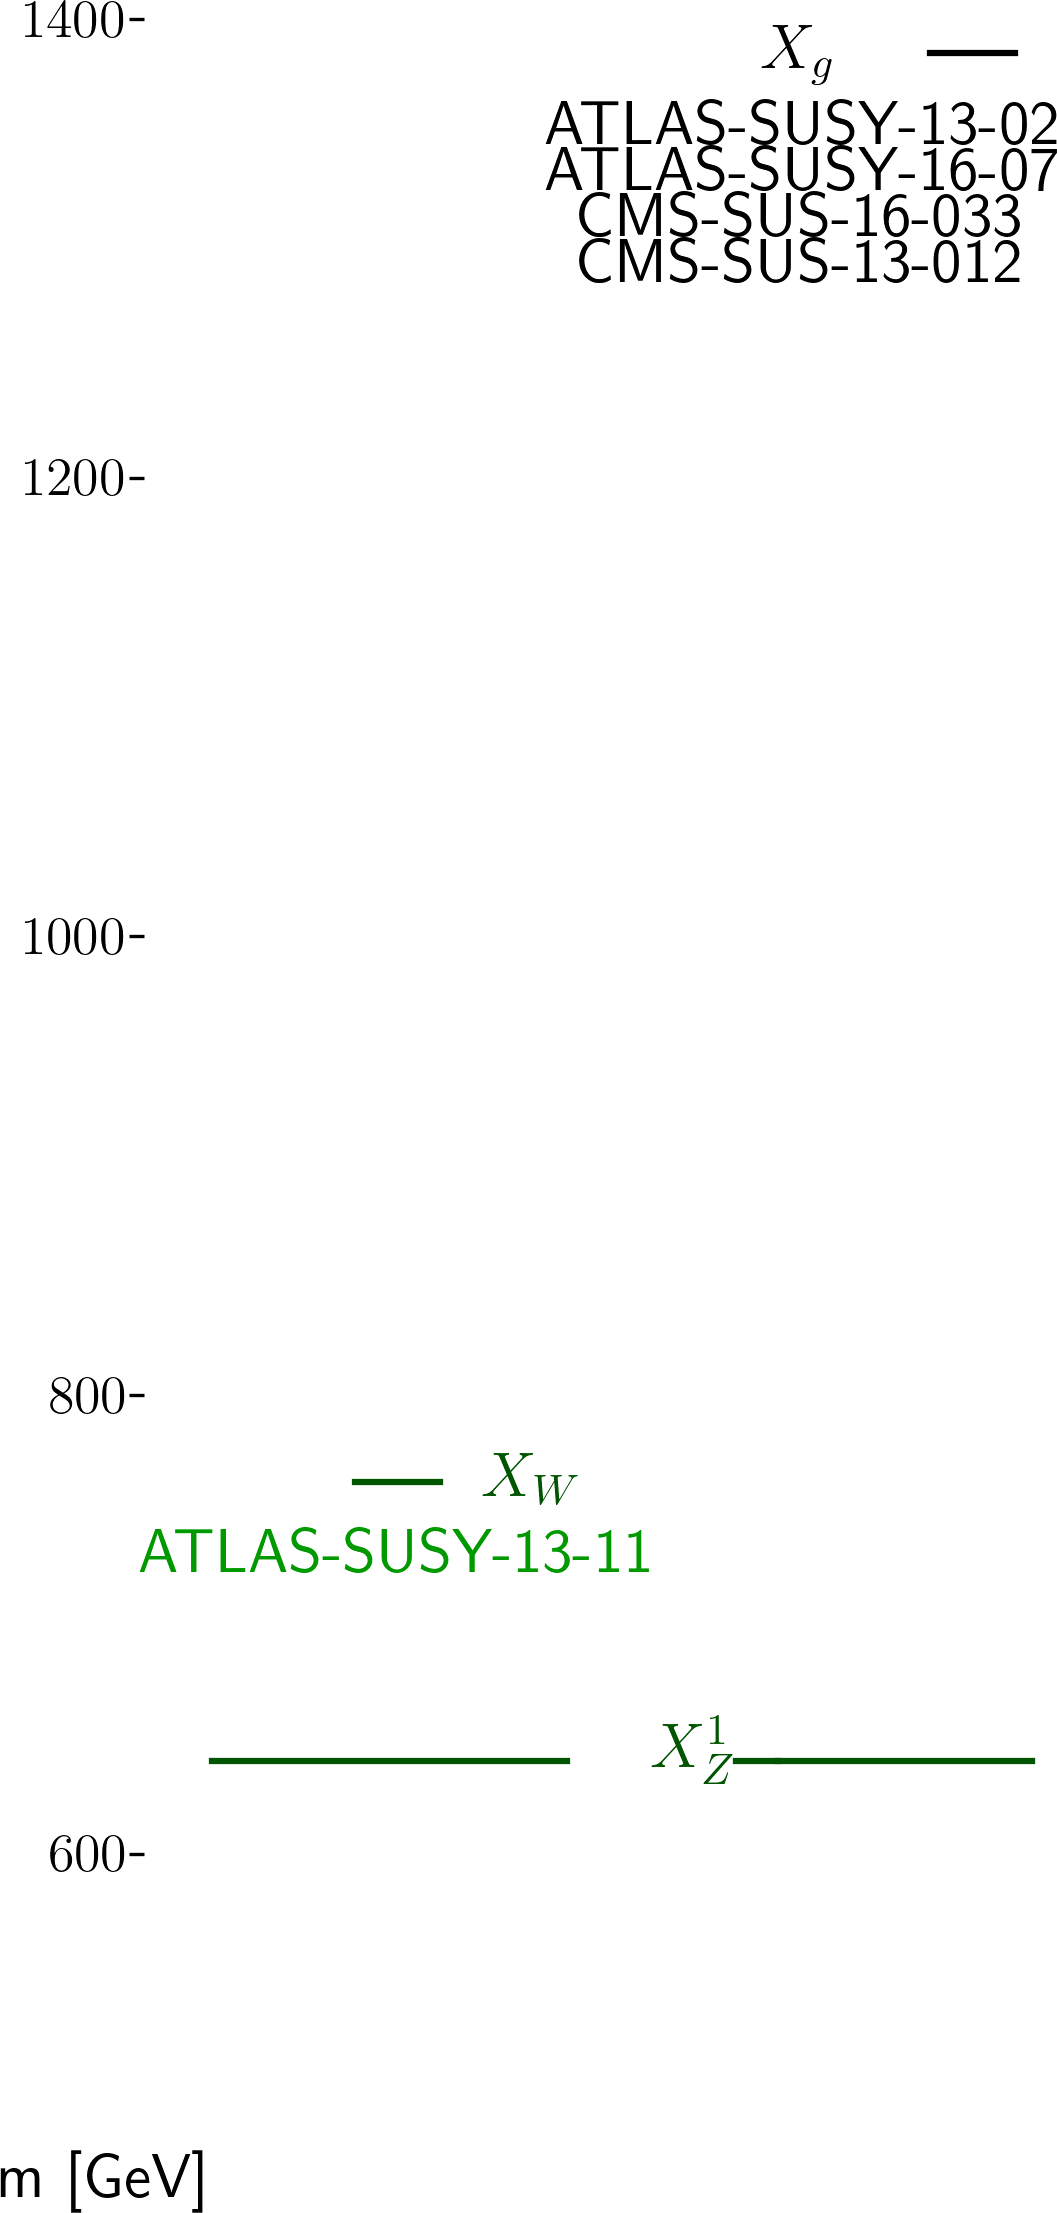
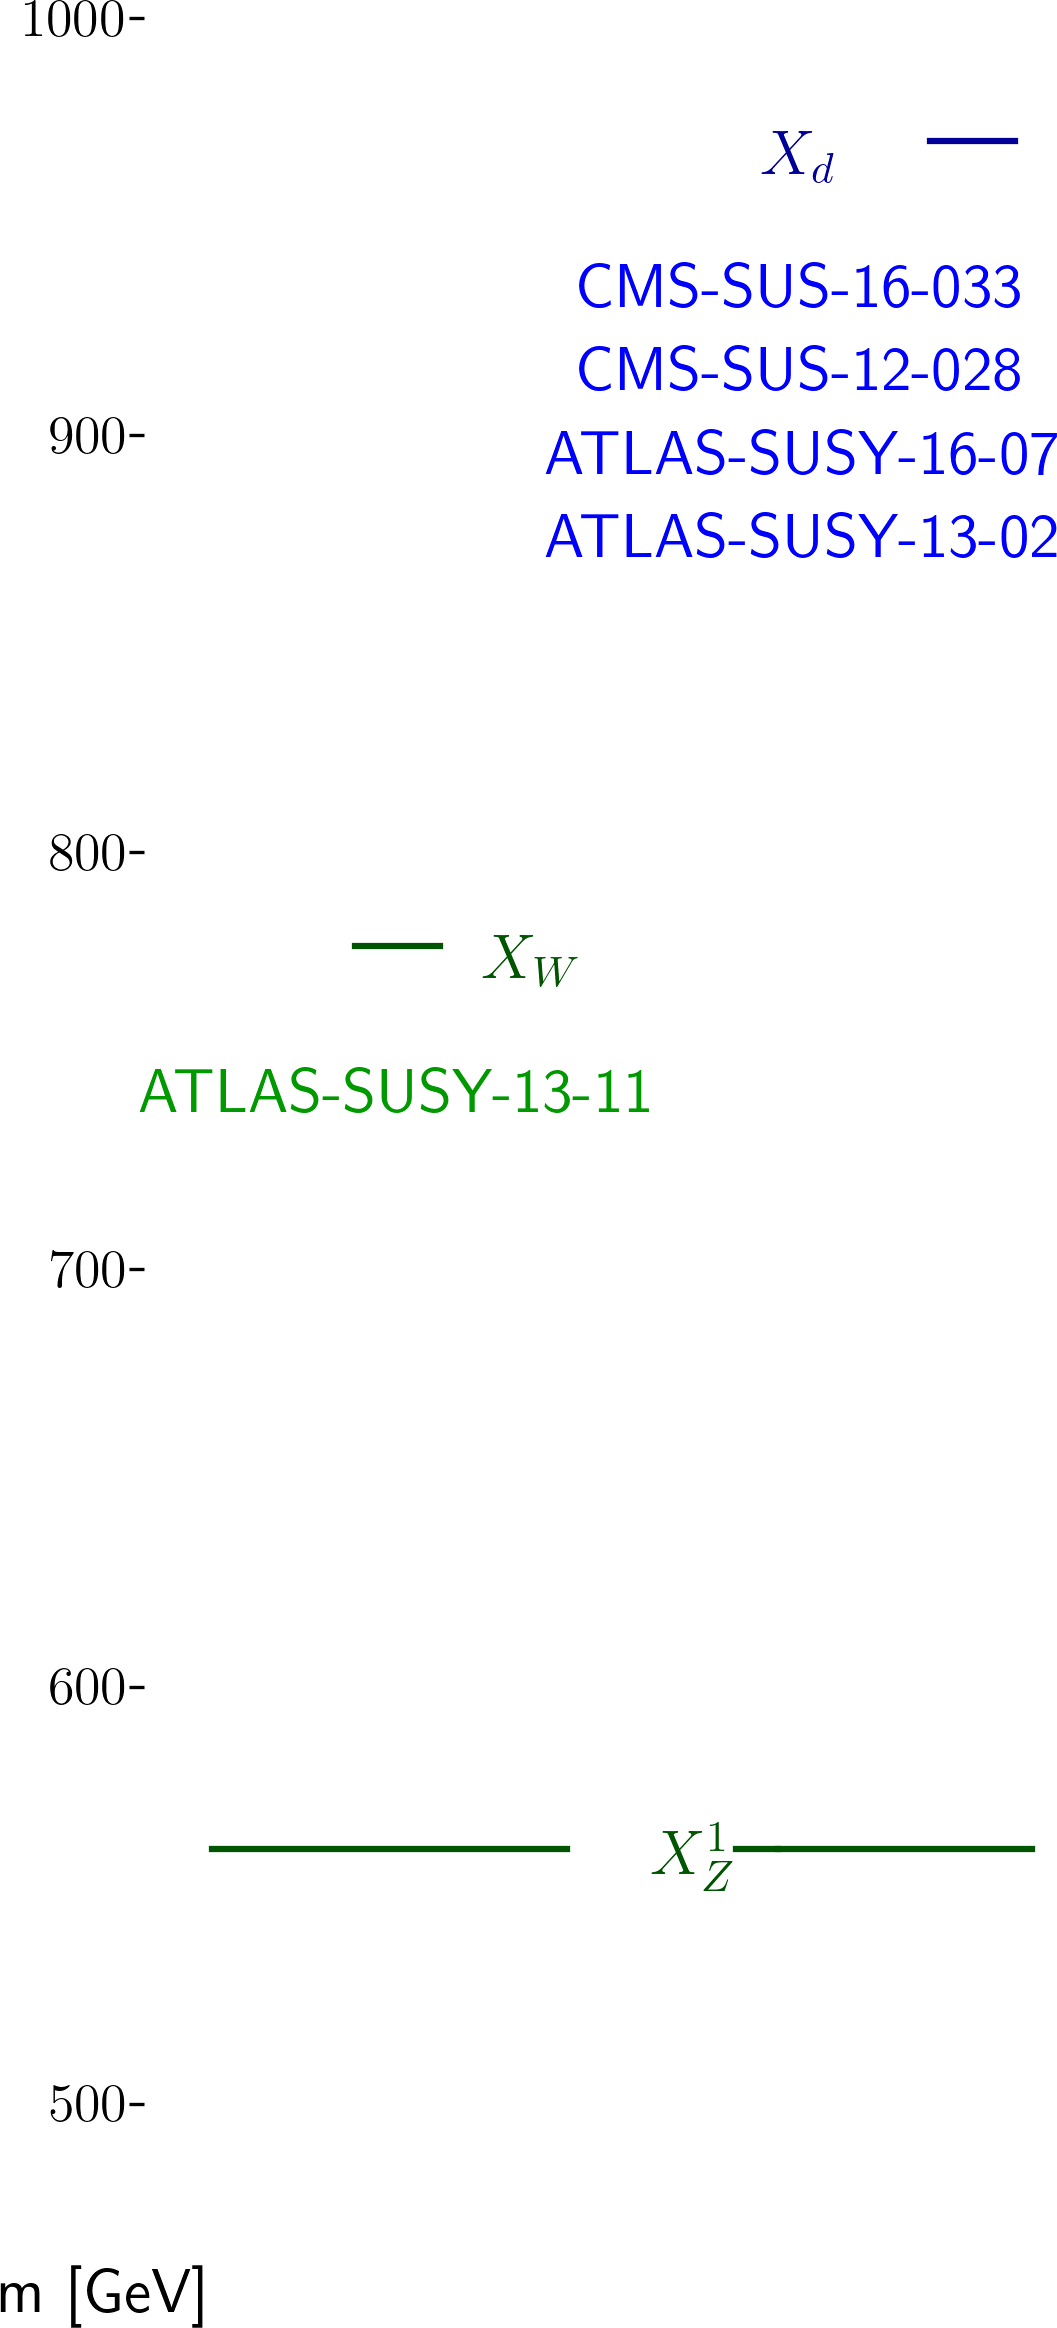
automated update by plotHiscore.py

diff --git a/protomodels/latest/index.html b/protomodels/latest/index.html
@@ -1,29 +1,30 @@
 <html>
 <body>
 <center>
-<table><td><h1>Current best protomodel: K=5.80</h1><td><img height=60px src=https://smodels.github.io/pics/banner.png></table>
+<table><td><h1>Current best protomodel: K=6.69</h1><td><img height=60px src=https://smodels.github.io/pics/banner.png></table>
 </center>
-<b><a href=./hiscore.slha>ProtoModel</a> <a href=./pmodel.py>(dict)</a> produced with <a href=https://smodels.github.io/docs/Validation124signal16>database v1.2.4signal16</a>, combination strategy <a href=./matrix_aggressive.png>aggressive</a> in walker 9 step 158.</b> K plots for: <a href=./M1000022.png?7412571>X<sub>Z</sub><sup>1</sup></a>, <a href=./M1000002.png?7412571>X<sub>u</sub></a>, <a href=./M1000001.png?7412571>X<sub>d</sub></a>. HPD plots for: <a href=./llhd1000002.png?7412571>X<sub>u</sub></a>, <a href=./llhd1000001.png?7412571>X<sub>d</sub></a>. SSM plots for: <a href=./ssm_1000021_1000021.png?7412571>(X<sub>g</sub>,X<sub>g</sub>)</a><br>
+<b><a href=./hiscore.slha>ProtoModel</a> <a href=./pmodel.py>(dict)</a> produced with <a href=https://smodels.github.io/docs/Validation124signal16>database v1.2.4signal16</a>, combination strategy <a href=./matrix_aggressive.png>aggressive</a> in walker 5 step 193.</b> K plots for: <a href=./M1000022.png?7428475>X<sub>Z</sub><sup>1</sup></a>, <a href=./M1000001.png?7428475>X<sub>d</sub></a>, <a href=./M1000024.png?7428475>X<sub>W</sub></a>. HPD plots for: <a href=./llhd1000001.png?7428475>X<sub>d</sub></a>, <a href=./llhd1000024.png?7428475>X<sub>W</sub></a>. SSM plots for: <br>
 <table width=80%>
 <tr><td>
-<br><b>19 predictions available. Highest r values are:</b><br><ul>
-<li><a href=http://cms-results.web.cern.ch/cms-results/public-results/publications/SUS-19-006/index.html>CMS-SUS-19-006</a>:T1 r=1.30, r<sub>exp</sub>=0.97<br>
-<li><a href=https://atlas.web.cern.ch/Atlas/GROUPS/PHYSICS/PAPERS/SUSY-2013-11/>ATLAS-SUSY-2013-11</a>:TChiWW r=0.70, r<sub>exp</sub>=0.84<br>
-<li><a href=https://atlas.web.cern.ch/Atlas/GROUPS/PHYSICS/PAPERS/SUSY-2016-07/>ATLAS-SUSY-2016-07</a>:T2,T1,TGQ r=0.67, r<sub>exp</sub>=1.31<br>
-<li><a href=http://cms-results.web.cern.ch/cms-results/public-results/publications/SUS-19-006/index.html>CMS-SUS-19-006</a>:T2 r=0.56, r<sub>exp</sub>=0.48<br>
-<li><a href=https://atlas.web.cern.ch/Atlas/GROUPS/PHYSICS/PAPERS/SUSY-2016-07/>ATLAS-SUSY-2016-07</a>:T1 r=0.51, r<sub>exp</sub>=N/A<br>
+<br><b>14 predictions available. Highest r values are:</b><br><ul>
+<li><a href=http://cms-results.web.cern.ch/cms-results/public-results/publications/SUS-19-006/index.html>CMS-SUS-19-006</a>:T2 r=1.30, r<sub>exp</sub>=1.10<br>
+<li><a href=https://atlas.web.cern.ch/Atlas/GROUPS/PHYSICS/PAPERS/SUSY-2013-11/>ATLAS-SUSY-2013-11</a>:TChiWW r=1.11, r<sub>exp</sub>=1.52<br>
+<li><a href=http://cms-results.web.cern.ch/cms-results/public-results/publications/SUS-16-033/index.html>CMS-SUS-16-033</a>:T2 r=0.73, r<sub>exp</sub>=0.87<br>
+<li><a href=http://cms-results.web.cern.ch/cms-results/public-results/publications/SUS-16-036/index.html>CMS-SUS-16-036</a>:T2 r=0.56, r<sub>exp</sub>=0.73<br>
+<li><a href=https://atlas.web.cern.ch/Atlas/GROUPS/PHYSICS/PAPERS/SUSY-2016-07/>ATLAS-SUSY-2016-07</a>:T2 r=0.23, r<sub>exp</sub>=0.52<br>
 </ul>
 <td><br><b>K values without analyses: (contribution)</b><br>
 <ul>
-<li> <a href=https://atlas.web.cern.ch/Atlas/GROUPS/PHYSICS/PAPERS/SUSY-2013-02/>ATLAS-SUSY-2013-02</a>: 4.43 (9%)
-<li> <a href=https://twiki.cern.ch/twiki/bin/view/CMSPublic/PhysicsResultsSUS13012>CMS-SUS-13-012</a>: 4.06 (12%)
-<li> <a href=http://cms-results.web.cern.ch/cms-results/public-results/publications/SUS-16-033/index.html>CMS-SUS-16-033</a>: 2.34 (24%)
-<li> <a href=https://atlas.web.cern.ch/Atlas/GROUPS/PHYSICS/PAPERS/SUSY-2016-07/>ATLAS-SUSY-2016-07</a>: -1.99 (54%)
-<td><img width=600px src=./texdoc.png?1600412571>
-<br><font size=-1>Last updated: Fri Sep 18 09:02:51 2020</font>
+<li> <a href=https://atlas.web.cern.ch/Atlas/GROUPS/PHYSICS/PAPERS/SUSY-2013-02/>ATLAS-SUSY-2013-02</a>: 6.91 (-3%)
+<li> <a href=https://twiki.cern.ch/twiki/bin/view/CMSPublic/PhysicsResultsSUS12028>CMS-SUS-12-028</a>: 6.75 (-1%)
+<li> <a href=http://cms-results.web.cern.ch/cms-results/public-results/publications/SUS-16-033/index.html>CMS-SUS-16-033</a>: 5.24 (18%)
+<li> <a href=https://atlas.web.cern.ch/Atlas/GROUPS/PHYSICS/PAPERS/SUSY-2013-11/>ATLAS-SUSY-2013-11</a>: 3.69 (37%)
+<li> <a href=https://atlas.web.cern.ch/Atlas/GROUPS/PHYSICS/PAPERS/SUSY-2016-07/>ATLAS-SUSY-2016-07</a>: 2.66 (49%)
+<td><img width=600px src=./texdoc.png?1600428475>
+<br><font size=-1>Last updated: Fri Sep 18 13:27:55 2020</font>
 </table><table style="width:80%">
-<td width=45%><img height=580px src=./ruler.png?1600412571><td width=55%><img height=380px src=./decays.png?1600412571>
-<font size=-3><iframe type="text/html" height="220px" width="100%s" frameborder="0" src="./rawnumbers.html?1600412571"></iframe></font>
+<td width=45%><img height=580px src=./ruler.png?1600428475><td width=55%><img height=380px src=./decays.png?1600428475>
+<font size=-3><iframe type="text/html" height="220px" width="100%s" frameborder="0" src="./rawnumbers.html?1600428475"></iframe></font>
 </table>
 </body>
 </html>

diff --git a/protomodels/latest/rawnumbers.html b/protomodels/latest/rawnumbers.html
@@ -1,9 +1,9 @@
 <table>
 <tr><th>Analysis Name</th><th>Type</th><th>Dataset</th><th>Topos</th><th>Observed</th><th>Expected</th><th>Approx &sigma;</th><th>Particles</th><th>Signal</th>
 </tr>
-<tr><td><a href=https://atlas.web.cern.ch/Atlas/GROUPS/PHYSICS/PAPERS/SUSY-2013-02/>ATLAS-SUSY-2013-02</a></td><td>em</td> <td>SR4jt</td><td>T1</td><td>1</td><td>2.5 +/- 1</td><td style="text-align:right">-0.8 &sigma;</td><td style="text-align:right">X<sub>g</sub></td><td style="text-align:right">1</td></tr>
+<tr><td><a href=https://atlas.web.cern.ch/Atlas/GROUPS/PHYSICS/PAPERS/SUSY-2013-02/>ATLAS-SUSY-2013-02</a></td><td>em</td> <td>SR4jt</td><td>T2</td><td>1</td><td>2.5 +/- 1</td><td style="text-align:right">-0.8 &sigma;</td><td style="text-align:right">X<sub>d</sub></td><td style="text-align:right">1</td></tr>
 <tr><td><a href=https://atlas.web.cern.ch/Atlas/GROUPS/PHYSICS/PAPERS/SUSY-2013-11/>ATLAS-SUSY-2013-11</a></td><td>em</td> <td>mT2-120-DF</td><td>TChiWW</td><td>10</td><td>3.6 +/- 1.2</td><td style="text-align:right">2.9 &sigma;</td><td style="text-align:right">X<sub>W</sub></td><td style="text-align:right">-</td></tr>
-<tr><td><a href=https://atlas.web.cern.ch/Atlas/GROUPS/PHYSICS/PAPERS/SUSY-2016-07/>ATLAS-SUSY-2016-07</a></td><td>em</td> <td>2j_Meff_1200</td><td>T1, T2, TGQ</td><td>624</td><td>526 +/- 31</td><td style="text-align:right">2.5 &sigma;</td><td style="text-align:right">X<sub>g</sub></td><td style="text-align:right">93</td></tr>
-<tr><td><a href=https://twiki.cern.ch/twiki/bin/view/CMSPublic/PhysicsResultsSUS13012>CMS-SUS-13-012</a></td><td>ul</td> <td>-</td><td>T1</td><td> 7.5 fb </td><td> 4.0 fb</td><td style="text-align:right">1.7 &sigma;</td><td style="text-align:right">X<sub>g</sub></td><td style="text-align:right">-</td></tr>
-<tr><td><a href=http://cms-results.web.cern.ch/cms-results/public-results/publications/SUS-16-033/index.html>CMS-SUS-16-033</a></td><td>em</td> <td>SR3_Njet5_Nb0_H ...</td><td>T1, T2, TGQ</td><td>891</td><td>806 +/- 57</td><td style="text-align:right">1.3 &sigma;</td><td style="text-align:right">X<sub>g</sub></td><td style="text-align:right">101</td></tr>
+<tr><td><a href=https://atlas.web.cern.ch/Atlas/GROUPS/PHYSICS/PAPERS/SUSY-2016-07/>ATLAS-SUSY-2016-07</a></td><td>em</td> <td>2j_Meff_1200</td><td>T2</td><td>624</td><td>526 +/- 31</td><td style="text-align:right">2.5 &sigma;</td><td style="text-align:right">X<sub>d</sub></td><td style="text-align:right">93</td></tr>
+<tr><td><a href=https://twiki.cern.ch/twiki/bin/view/CMSPublic/PhysicsResultsSUS12028>CMS-SUS-12-028</a></td><td>ul</td> <td>-</td><td>T2</td><td> 16.8 fb </td><td> 34.5 fb</td><td style="text-align:right">-1.0 &sigma;</td><td style="text-align:right">X<sub>d</sub></td><td style="text-align:right">3.08 fb</td></tr>
+<tr><td><a href=http://cms-results.web.cern.ch/cms-results/public-results/publications/SUS-16-033/index.html>CMS-SUS-16-033</a></td><td>em</td> <td>SR3_Njet5_Nb0_H ...</td><td>T2</td><td>891</td><td>806 +/- 57</td><td style="text-align:right">1.3 &sigma;</td><td style="text-align:right">X<sub>d</sub></td><td style="text-align:right">101</td></tr>
 </table>

diff --git a/protomodels/latest/pmodel.py b/protomodels/latest/pmodel.py
@@ -1,1 +1,1 @@
-{'masses': {1000022: 630.535, 1000024: 752.229, 1000021: 1374.974}, 'ssmultipliers': {(1000022, 1000022): 5352754.749, (1000024, 1000024): 1169.482, (-1000024, 1000024): 1169.482, (-1000024, -1000024): 1169.482, (1000022, 1000024): 0.0, (-1000024, 1000022): 0.653, (1000021, 1000021): 0.62, (1000021, 1000022): 0.62, (1000021, 1000024): 0.62, (-1000024, 1000021): 0.62}, 'decays': {1000022: {}, 1000024: {1000022: 1.0}, 1000021: {(1000022, 6): 0.005, (1000024, 5): 0.208, (1000022, 21): 0.327, (1000022, 1): 0.295, (1000022, 4): 0.166}}, 'timestamp': 'Fri Sep 18 09:02:42 2020', 'Z': 3.361, 'K': 5.796, 'step': 158, 'codever': '1.0', 'dbver': '1.2.4signal16'}
+{'masses': {1000022: 550.973, 1000024: 767.594, 1000001: 960.468}, 'ssmultipliers': {(1000022, 1000022): 16678291272.116, (1000024, 1000024): 1583.13, (-1000024, 1000024): 1583.13, (-1000024, -1000024): 1583.13, (1000022, 1000024): 1583.13, (-1000024, 1000022): 1583.13, (1000001, 1000001): 3.251, (-1000001, 1000001): 3.251, (-1000001, -1000001): 3.251, (1000001, 1000022): 3.251, (-1000001, 1000022): 3.251, (1000001, 1000024): 3.251, (-1000001, 1000024): 3.251, (-1000024, 1000001): 3.251, (-1000024, -1000001): 3.251}, 'decays': {1000022: {}, 1000024: {1000022: 1.0}, 1000001: {1000022: 1.0}}, 'timestamp': 'Fri Sep 18 13:27:44 2020', 'Z': 3.219, 'K': 6.688, 'step': 193, 'codever': '1.0', 'dbver': '1.2.4signal16'}
